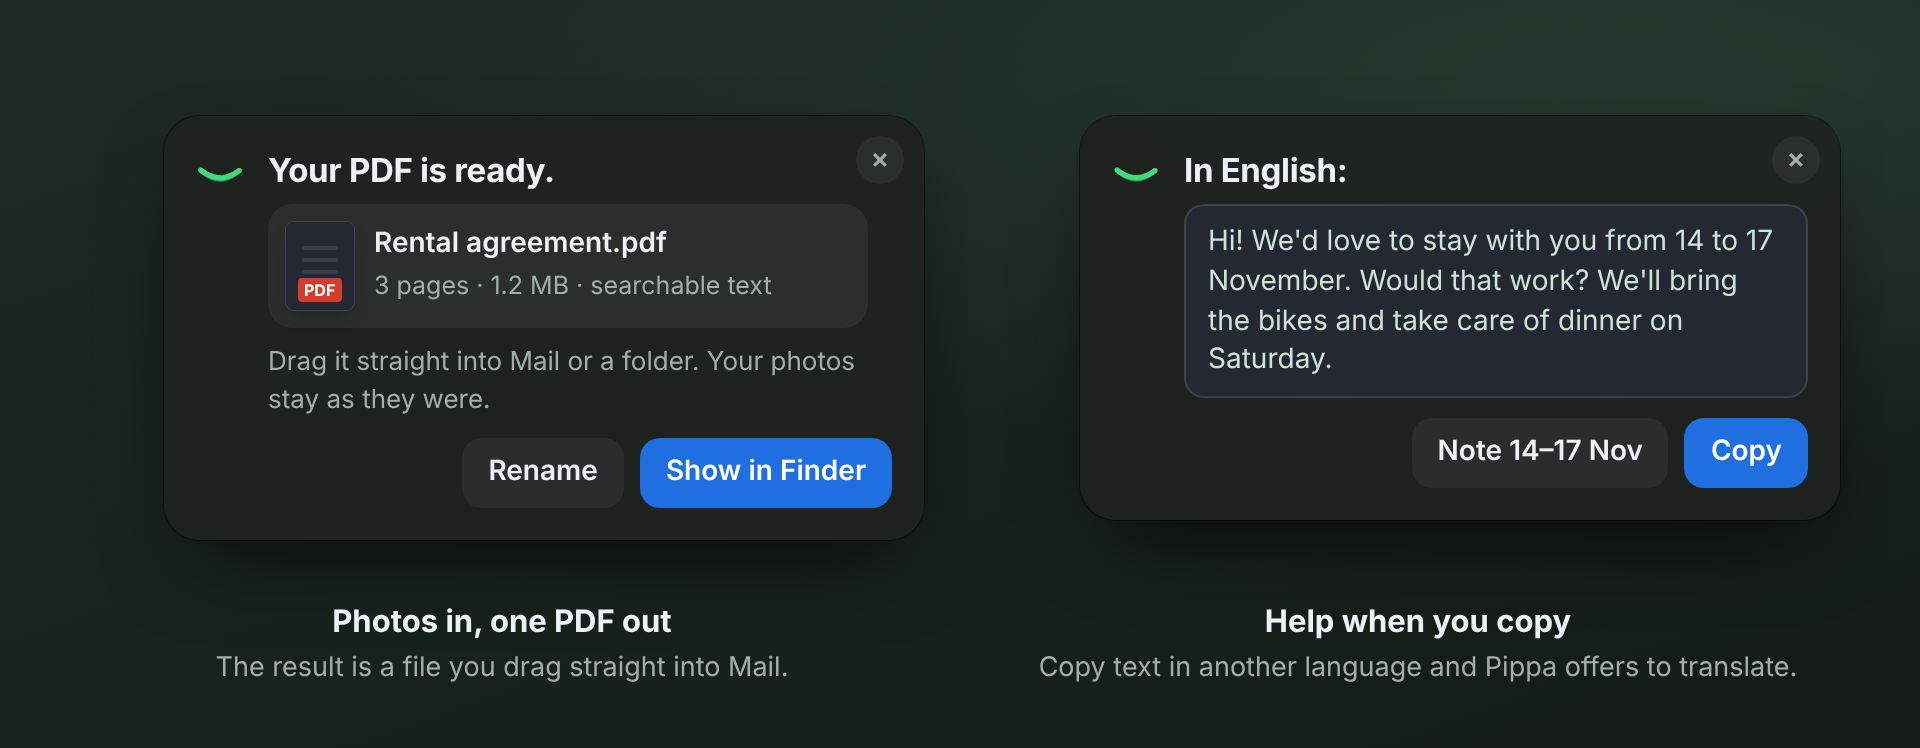
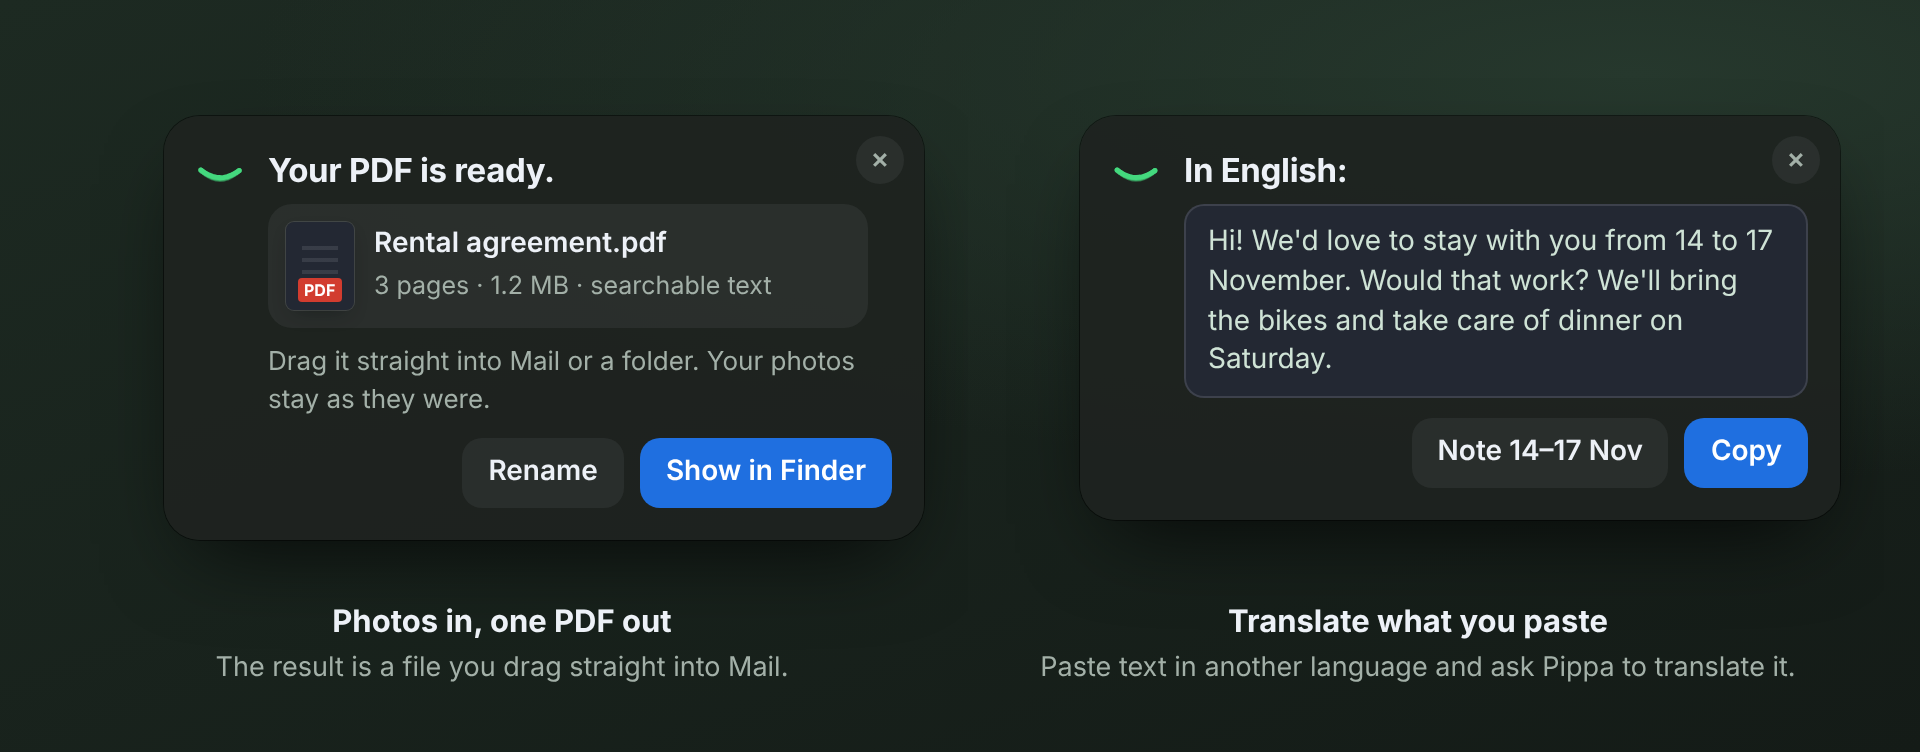
Website and README: pasting with ⌘V, with sample pictures
A new section on the website (German and English) and in the README shows
what ⌘V does in Pippa: a screenshot from the clipboard or files copied in the
Finder are taken like a drop, with the same choices. The pictures are
renderings from docs/images/src like the others, with a one-column version
for phones. The README caption 'Help when you copy' promised an automatic
translate offer that the app does not have; it now says 'Translate what you
paste'.

Claude-Session: https://claude.ai/code/session_01QbpqFxPX5g2Eyb2ZMKMPM9

diff --git a/docs/images/src/gallery.html b/docs/images/src/gallery.html
@@ -1,7 +1,7 @@
 <!doctype html><html><head><meta charset="utf-8"><style>
 @font-face{font-family:"Gochi Hand";src:url(../../../site/fonts/gochi-hand.ttf)}
-:root{--ink:#10251a;--ink-3:#56645b;--wall-a:#cfe0d4;--wall-b:#e9efe6;--wall-c:#b7cfc0}
-.dark{--ink:#edf1f7;--ink-3:#a3b0a8;--wall-a:#1d2a22;--wall-b:#141b17;--wall-c:#26382d}
+:root{--ink:#10251a;--ink-3:#56645b;--wall-a:#cfe0d4;--wall-b:#e9efe6;--wall-c:#b7cfc0;--key:#fff;--sep:rgba(16,37,26,.2)}
+.dark{--ink:#edf1f7;--ink-3:#a3b0a8;--wall-a:#1d2a22;--wall-b:#141b17;--wall-c:#26382d;--key:#2a3330;--sep:rgba(0,0,0,.6)}
 html,body{margin:0}
 .g{width:960px;padding:34px 28px 30px;box-sizing:border-box;font:15px/1.4 Inter,sans-serif;color:var(--ink);
   background:radial-gradient(120% 90% at 85% 10%,var(--wall-c),transparent 60%),linear-gradient(160deg,var(--wall-a),var(--wall-b))}
@@ -9,12 +9,13 @@ html,body{margin:0}
 .cell{display:grid;justify-items:center;gap:2px;text-align:center}
 .cell img{display:block;margin:-40px -40px -52px;position:relative;z-index:0}.cap{position:relative;z-index:1}
 .cap b{display:block;font-weight:650;font-size:15.5px}
-.cap span{color:var(--ink-3);font-size:13.5px}
+.cap span{color:var(--ink-3);font-size:13.5px;display:inline-block;max-width:30em;line-height:1.7}
+.k{display:inline-block;min-width:1.9em;padding:1px 6px;margin:0 1px;border-radius:6px;background:var(--key);box-shadow:0 0 0 .5px var(--sep),0 1.5px 0 var(--sep);font:600 12.5px/1.6 Inter,sans-serif;color:var(--ink);text-align:center}
 .n{font:22px/1 "Gochi Hand",cursive;color:var(--ink-3);margin-right:6px}
 </style></head><body><div class="g" id="g"></div><script>
 const q=new URLSearchParams(location.search), t=q.get('theme')||'light', kind=q.get('kind');
 if(t==='dark')document.documentElement.classList.add('dark');
-const img=k=>`<img src="${q.get('dir')}/${t}-crop-${k}.png" onload="this.style.width=this.naturalWidth/2+'px'">`;
+const img=k=>`<img src="${q.get('dir')}/${t}-crop-${k}${k.startsWith('paste')&&q.get('lang')==='de'?'-de':''}.png" onload="this.style.width=this.naturalWidth/2+'px'">`;
 const g=document.getElementById('g');
 if(kind==='moods'){
   g.innerHTML=`<div class="grid" style="grid-template-columns:1fr 1fr">`+[
@@ -23,10 +24,21 @@ if(kind==='moods'){
    ['done','Done, and waiting for you','The result stays in the pill until you look at it.'],
    ['failed','Says when something went wrong','With the reason and a next step, never a silent spinner.'],
   ].map(([k,h,s])=>`<div class="cell">${img(k)}<div class="cap"><b>${h}</b><span>${s}</span></div></div>`).join('')+`</div>`;
+} else if(kind==='paste'){
+  const de=q.get('lang')==='de', k=s=>`<span class="k">${s}</span>`;
+  // narrow=1: one column for phones on the website.
+  if(q.get('narrow'))g.style.width='520px';
+  g.innerHTML=`<div class="grid" style="grid-template-columns:${q.get('narrow')?'1fr':'1fr 1fr'};align-items:start">`+(de?[
+   ['pasteshot','Ein Bildschirmfoto einfügen',`${k('⌃⇧⌘4')} legt es in die Zwischenablage, ${k('⌘V')} in Pippa.`],
+   ['pastefiles','Kopierte Dateien einfügen',`${k('⌘C')} im Finder, ${k('⌘V')} in Pippa. Wie Draufziehen.`],
+  ]:[
+   ['pasteshot','Paste a screenshot',`${k('⌃⇧⌘4')} puts it on the clipboard, ${k('⌘V')} in Pippa.`],
+   ['pastefiles','Paste copied files',`${k('⌘C')} in the Finder, ${k('⌘V')} in Pippa. Like dropping them.`],
+  ]).map(([k,h,s])=>`<div class="cell">${img(k)}<div class="cap"><b>${h}</b><span>${s}</span></div></div>`).join('')+`</div>`;
 } else {
   g.innerHTML=`<div class="grid" style="grid-template-columns:1fr 1fr;align-items:start">`+[
    ['fotos','Photos in, one PDF out','The result is a file you drag straight into Mail.'],
-   ['copy','Help when you copy','Copy text in another language and Pippa offers to translate.'],
+   ['copy','Translate what you paste','Paste text in another language and ask Pippa to translate it.'],
   ].map(([k,h,s])=>`<div class="cell">${img(k)}<div class="cap"><b>${h}</b><span>${s}</span></div></div>`).join('')+`</div>`;
 }
 </script></body></html>

diff --git a/docs/images/src/demo.html b/docs/images/src/demo.html
@@ -93,6 +93,9 @@ body{color:var(--ink);font:15px/1.5 var(--f)}
 .chip .minis{display:flex}
 .chip .minis i{width:16px;height:20px;border-radius:2px;border:2px solid var(--paper);margin-right:-6px;background:linear-gradient(#e9d9b6,#cdb98e)}
 .chip .minis i:nth-child(2){background:linear-gradient(#dfe7ef,#b7c6d6)} .chip .minis i:nth-child(3){background:linear-gradient(#f2efe7,#d8d1c0);margin-right:4px}
+.chip .shot{width:30px;height:20px;border-radius:3px;flex:none;position:relative;overflow:hidden;background:var(--paper);box-shadow:0 0 0 .5px var(--sep),0 1px 2px rgba(0,0,0,.15)}
+.chip .shot::before{content:"";position:absolute;inset:0 0 auto 0;height:4px;background:var(--fill-2)}
+.chip .shot::after{content:"";position:absolute;left:4px;right:9px;top:8px;height:8px;background:repeating-linear-gradient(var(--fill-2) 0 2px,transparent 2px 4px)}
 .verbs{display:grid;gap:6px;margin-bottom:10px}
 .btn{font:600 14px/1.2 var(--fr);border:0;border-radius:10px;padding:9px 13px;text-align:left;background:var(--fill);color:var(--ink);transition:background .15s,transform .1s}
 .btn.pri{background:var(--blue-fill);color:#fff}
@@ -191,6 +194,15 @@ const S = {
     <p class="hint">Drag it straight into Mail or a folder. Your photos stay as they were.</p>
     <div class="row"><button class="btn">Rename</button><button class="btn pri">Show in Finder</button></div>`, { card: true }); },
   peek() { face('ruht'); show(`<span class="lab">Translate? <button class="btn pri" style="padding:5px 10px;font-size:13px">Yes</button><button class="btn" style="padding:5px 9px;font-size:13px">×</button></span>`); },
+  // Pasted with ⌘V: a screenshot, or files copied in the Finder (same offers as a drop, from ThingActions).
+  pasteShot(de) { face('ruht'); show(`<div class="chip"><span class="shot"></span>${de ? 'Bild aus der Zwischenablage 16-42.png' : 'Clipboard image 16-42.png'}</div>
+    <div class="card-h">${de ? 'Was soll ich damit machen?' : 'What should I do with it?'}</div>
+    <div class="verbs"><button class="btn pri">${de ? 'Als PDF' : 'As PDF'}</button><button class="btn">${de ? 'Als JPG' : 'As JPG'}</button><button class="btn">${de ? 'Kleiner machen' : 'Make smaller'}</button></div>
+    <div class="ask">${de ? 'Oder frag etwas zum Bild …' : 'Or ask about the picture …'}</div>`, { card: true, w: de ? 420 : 380 }); },
+  pasteFiles(de) { face('ruht'); show(`<div class="chip"><span class="minis"><i></i><i></i><i></i></span>${de ? '3 Fotos' : '3 photos'}</div>
+    <div class="card-h">${de ? 'Was soll ich damit machen?' : 'What should I do with them?'}</div>
+    <div class="verbs"><button class="btn pri">${de ? 'Ein PDF machen' : 'Make one PDF'}</button><button class="btn">${de ? 'Kleiner machen' : 'Make smaller'}</button></div>
+    <div class="ask">${de ? 'Oder frag etwas zu den Fotos …' : 'Or ask about the photos …'}</div>`, { card: true }); },
   resultCopy() { face('offen'); show(`<div class="card-h">In English:</div>
     <div class="out">Hi! We'd love to stay with you from 14 to 17 November. Would that work? We'll bring the bikes and take care of dinner on Saturday.</div>
     <div class="row"><button class="btn">Note 14–17 Nov</button><button class="btn pri">Copy</button></div>`, { card: true }); },

diff --git a/site/index.html b/site/index.html
@@ -380,6 +380,12 @@ footer .wrap{display:grid;gap:6px;max-width:800px}
 .band{padding:var(--s8) 0;margin-top:var(--s8);text-align:center}
 .band h2{font:400 clamp(32px,1.2rem + 2.4vw,48px)/1 var(--fd);margin:0 0 var(--s5)}
 .band .req,.band .mnote{margin-left:auto;margin-right:auto}
+.paste{padding-bottom:0}
+.paste-lead{margin:0 auto var(--s5);max-width:36em;color:var(--ink-2);text-wrap:pretty}
+.paste-lead kbd{white-space:nowrap}
+.paste-shot{margin:0 auto;max-width:960px}
+.paste img{display:block;max-width:100%;width:100%;height:auto;border-radius:24px;box-shadow:0 1px 2px rgba(16,37,26,.06)}
+.paste .demo-note{margin-top:var(--s3)}
 .nerd{margin-top:var(--s7)}
 footer .row{display:flex;gap:var(--s2);align-items:center;font:400 18px/1 var(--fd);color:var(--ink)}
 
@@ -654,6 +660,15 @@ footer .wrap{max-width:1120px}
     </div>
   </div>
   <p class="sr" id="live" aria-live="polite"></p>
+</section>
+
+<section class="calm-s paste" aria-labelledby="h-paste">
+  <div class="wrap">
+    <h2 id="h-paste">Oder einfach einfügen.</h2>
+    <p class="paste-lead">Was in der Zwischenablage liegt, nimmt Pippa wie alles, was du auf sie ziehst. Ein Bildschirmfoto mit <kbd>⌃⇧⌘4</kbd> oder Dateien mit <kbd>⌘C</kbd> im Finder, dann Pippa öffnen und <kbd>⌘V</kbd> drücken.</p>
+    <div class="paste-shot"><picture><source media="(max-width:640px)" srcset="images/einfuegen-de-schmal.webp"><img src="images/einfuegen-de.webp" width="960" height="429" loading="lazy" decoding="async" alt="Zwei Karten in Pippas Pille. Links ein eingefügtes Bildschirmfoto „Bild aus der Zwischenablage 16-42.png“ mit der Frage „Was soll ich damit machen?“ und den Knöpfen Als PDF, Als JPG und Kleiner machen. Rechts drei eingefügte Fotos mit den Knöpfen Ein PDF machen und Kleiner machen."></picture></div>
+    <p class="demo-note">Entwurf der Pille, keine Bildschirmaufnahme. Namen sind Beispiele.</p>
+  </div>
 </section>
 
 <section class="block" aria-labelledby="h-faq">

diff --git a/site/en/index.html b/site/en/index.html
@@ -382,6 +382,12 @@ footer .wrap{display:grid;gap:6px;max-width:800px}
 .band{padding:var(--s8) 0;margin-top:var(--s8);text-align:center}
 .band h2{font:400 clamp(32px,1.2rem + 2.4vw,48px)/1 var(--fd);margin:0 0 var(--s5)}
 .band .req,.band .mnote{margin-left:auto;margin-right:auto}
+.paste{padding-bottom:0}
+.paste-lead{margin:0 auto var(--s5);max-width:36em;color:var(--ink-2);text-wrap:pretty}
+.paste-lead kbd{white-space:nowrap}
+.paste-shot{margin:0 auto;max-width:960px}
+.paste img{display:block;max-width:100%;width:100%;height:auto;border-radius:24px;box-shadow:0 1px 2px rgba(16,37,26,.06)}
+.paste .demo-note{margin-top:var(--s3)}
 .nerd{margin-top:var(--s7)}
 footer .row{display:flex;gap:var(--s2);align-items:center;font:400 18px/1 var(--fd);color:var(--ink)}
 
@@ -656,6 +662,15 @@ footer .wrap{max-width:1120px}
     </div>
   </div>
   <p class="sr" id="live" aria-live="polite"></p>
+</section>
+
+<section class="calm-s paste" aria-labelledby="h-paste">
+  <div class="wrap">
+    <h2 id="h-paste">Or just paste it.</h2>
+    <p class="paste-lead">Whatever is on your clipboard, Pippa takes like anything you drop on her. A screenshot with <kbd>⌃⇧⌘4</kbd> or files copied with <kbd>⌘C</kbd> in the Finder, then open Pippa and press <kbd>⌘V</kbd>.</p>
+    <div class="paste-shot"><picture><source media="(max-width:640px)" srcset="../images/einfuegen-en-schmal.webp"><img src="../images/einfuegen-en.webp" width="960" height="429" loading="lazy" decoding="async" alt="Two cards in Pippa's pill. Left: a pasted screenshot, 'Clipboard image 16-42.png', with the question 'What should I do with it?' and the buttons As PDF, As JPG and Make smaller. Right: three pasted photos with the buttons Make one PDF and Make smaller."></picture></div>
+    <p class="demo-note">A rendering of the pill, not a screen recording. Names are examples.</p>
+  </div>
 </section>
 
 <section class="block" aria-labelledby="h-faq">

diff --git a/README.md b/README.md
@@ -49,6 +49,7 @@ Pippa is for people who don't pay for an AI subscription and never open Terminal
 - **Photos to PDF.** Drop scans or phone photos and choose *Make one PDF* (with searchable text), *Make smaller*, or convert between PDF, JPG and PNG. This runs on your Mac without a model, and your originals stay as they are.
 - **Tidy a folder.** Ask her to tidy Downloads; she sorts files into folders and shows you what went where.
 - **Check a spreadsheet.** Select cells in Microsoft Excel and choose *Check the total*: the numbers are added up again in code, and rows the total leaves out are pointed out. She can also collect invoices from a folder into a table.
+- **Paste instead of dragging.** Press **⌘V** in Pippa: a screenshot from the clipboard (**⌃⇧⌘4**) or files copied in the Finder are taken just like a drop, with the same choices. Text pastes as usual.
 - **Find a file.** "Where is the invoice from the plumber?" searches your Mac with Spotlight.
 - **Look something up online,** when the answer isn't on your Mac.
 
@@ -57,7 +58,14 @@ Behind the pill is an agent with file and shell tools, so she can also do jobs t
 <p align="center">
   <picture>
     <source media="(prefers-color-scheme: dark)" srcset="docs/images/pill-moments-dark.png">
-    <img src="docs/images/pill-moments-light.png" width="960" alt="Two result cards in the pill. Left: 'Your PDF is ready' with the file 'Rental agreement.pdf' to drag into Mail. Right: copied French text translated into English, with buttons to note the dates and copy the text.">
+    <img src="docs/images/pill-moments-light.png" width="960" alt="Two result cards in the pill. Left: 'Your PDF is ready' with the file 'Rental agreement.pdf' to drag into Mail. Right: pasted French text translated into English, with buttons to note the dates and copy the text.">
+  </picture>
+</p>
+
+<p align="center">
+  <picture>
+    <source media="(prefers-color-scheme: dark)" srcset="docs/images/pill-paste-dark.png">
+    <img src="docs/images/pill-paste-light.png" width="960" alt="Two cards in the pill after pressing ⌘V. Left: a pasted screenshot, 'Clipboard image 16-42.png', with 'What should I do with it?' and the buttons As PDF, As JPG and Make smaller. Right: three photos copied in the Finder, with Make one PDF and Make smaller.">
   </picture>
 </p>
 
